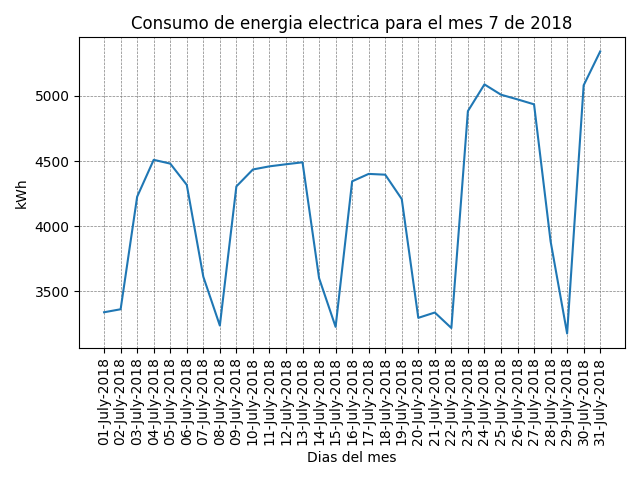
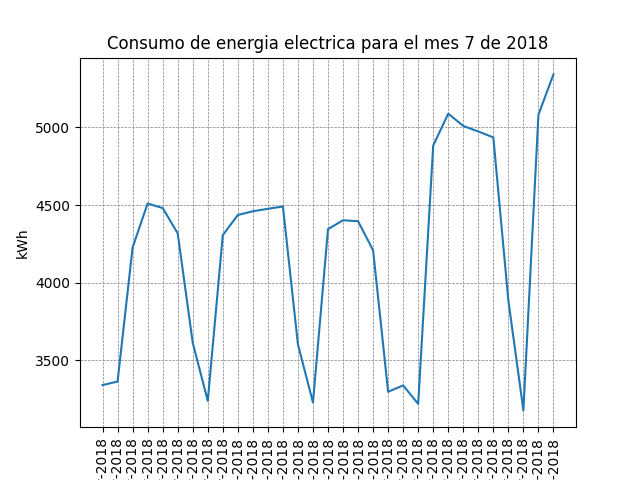
cambios chingones

diff --git a/app/utils/test1.py b/app/utils/test1.py
@@ -164,13 +164,13 @@ def func_lectura(month,day,ts):
         # print(f"Consumo total es: {vf_ac} kWh")
 
         #IMPRESION DE GRAFICAS
-        fig, gf1 =plt.subplots(tight_layout=True)
-        gf1.plot(vf)
+        #fig, gf1 =plt.subplots(tight_layout=True)
+        plt.plot(vf)
 
         if ts == 0:
             default_x_ticks = range(len(arr))
             plt.xticks(default_x_ticks, arr[:,1])
-            gf1.tick_params(axis='x', rotation=90)
+            plt.tick_params(axis='x', rotation=90)
             plt.xlabel('Dia')# naming the x axis
             plt.ylabel('kWh')# naming the y axis
             plt.title('Consumo de energia electrica para el dia '+str(day)+ ' del mes '+str(month)+' de '+str(year))
@@ -182,7 +182,7 @@ def func_lectura(month,day,ts):
                     days_of_month.append(arr[i,0])
             default_x_ticks=range(len(days_of_month))
             plt.xticks(default_x_ticks, days_of_month)
-            gf1.tick_params(axis='x', rotation=90)
+            plt.tick_params(axis='x', rotation=90)
             plt.xlabel('Dias del mes')# naming the x axis
             plt.ylabel('kWh')# naming the y axis
             plt.title('Consumo de energia electrica para el mes '+str(month)+' de '+str(year))
@@ -192,7 +192,7 @@ def func_lectura(month,day,ts):
             months_of_year=['Enero','Febrero','Marzo','Abril','Mayo','Junio','Julio','Agosto','Septiembre','Octubre','Noviembre','Diciembre']
             default_x_ticks=range(len(months_of_year))
             plt.xticks(default_x_ticks, months_of_year)
-            gf1.tick_params(axis='x', rotation=70)
+            plt.tick_params(axis='x', rotation=70)
             plt.xlabel('Meses del Año')# naming the x axis
             plt.ylabel('kWh')# naming the y axis
             plt.title('Consumo de energia electrica para el año '+str(year))
@@ -200,7 +200,7 @@ def func_lectura(month,day,ts):
 
         # # function to show the plot
         # plt.show()
-        
+        plt.savefig(strFile)
 
     except Error as ex:
         print("Error durante la conexion",ex)
@@ -212,4 +212,4 @@ def func_lectura(month,day,ts):
                 print("La conexion se ha finalizado")
                 return json_data
 
-    plt.savefig(strFile)
+    

diff --git a/app/routes/route.py b/app/routes/route.py
@@ -25,7 +25,8 @@ def lectura_datos():
             
             # llamado a la función
             datos = func_lectura(month,day,ts)
-            
+            import time
+            time.sleep(2) # Sleep for 3 seconds
             # Obtencion base64 img
             with open("lectura.png","rb") as file:
                 img64 = base64.b64encode(file.read())
